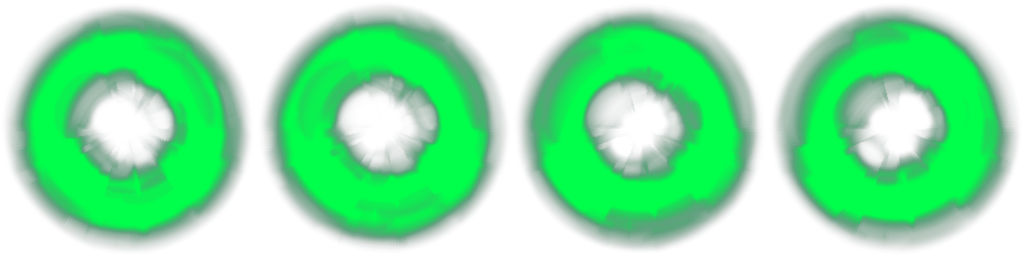
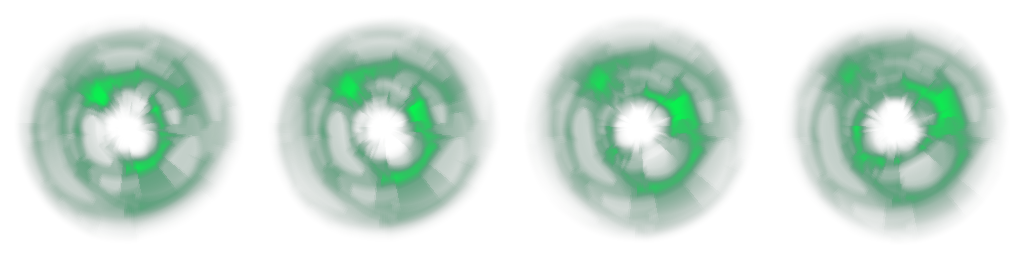
Match form VFX shader masks

diff --git a/scripts/extract-character-form-vfx.py b/scripts/extract-character-form-vfx.py
@@ -43,9 +43,9 @@ class FormSpec:
 
 
 FORMS = (
-    FormSpec("demon", "DEMON_FORM", "IRONCLAD", 0.72),
+    FormSpec("demon", "DEMON_FORM", "IRONCLAD", 0.5),
     FormSpec("serpent", "SERPENT_FORM", "SILENT", 0.4),
-    FormSpec("void", "VOID_FORM", "REGENT", 0.4),
+    FormSpec("void", "VOID_FORM", "REGENT", 0.18),
     FormSpec("reaper", "REAPER_FORM", "NECROBINDER", 0.52),
     FormSpec("echo", "ECHO_FORM", "DEFECT", 0.4),
 )
@@ -104,6 +104,17 @@ def smoothstep(left: float, right: float, value: float) -> float:
     return amount * amount * (3.0 - 2.0 * amount)
 
 
+def sample_float_gradient(stops: tuple[tuple[float, float], ...], value: float) -> float:
+    if value <= stops[0][0]:
+        return stops[0][1]
+    for index in range(1, len(stops)):
+        right_at, right_value = stops[index]
+        if value <= right_at:
+            left_at, left_value = stops[index - 1]
+            return mix(left_value, right_value, (value - left_at) / (right_at - left_at))
+    return stops[-1][1]
+
+
 def sample_gradient(stops: tuple[tuple[float, tuple[float, float, float]], ...], value: float) -> tuple[int, int, int]:
     if value <= stops[0][0]:
         color = stops[0][1]
@@ -155,7 +166,11 @@ def form_noise_frame(
     colors: tuple[tuple[float, tuple[float, float, float]], ...],
     mask: Callable[[float, float], float],
     overlay: Callable[[float, float], float],
+    alpha: Callable[[float, float, float], float] = lambda _u, _v, value: value,
+    initial_a: tuple[float, float] = (0, 0),
+    initial_b: tuple[float, float] = (0, 0),
     polar: bool = False,
+    polar_rotation: float = 0,
 ) -> Image.Image:
     noise_pixels = noise.load()
     output = Image.new("RGBA", (size, size))
@@ -167,24 +182,27 @@ def form_noise_frame(
             if polar:
                 dx, dy = u - 0.5, v - 0.5
                 source_u = math.hypot(dx, dy) * 2
-                source_v = (math.atan2(dy, dx) / (math.pi * 2)) % 1
+                source_v = (math.atan2(dy, dx) / (math.pi * 2) + polar_rotation) % 1
             else:
                 source_u, source_v = u, v
             a = sample_wrapped(
                 noise_pixels,
                 noise.size,
-                source_u * tiles_a[0] + tiles_a[2] * time,
-                source_v * tiles_a[1] + tiles_a[3] * time,
+                source_u * tiles_a[0] + tiles_a[2] * time + initial_a[0],
+                source_v * tiles_a[1] + tiles_a[3] * time + initial_a[1],
             )
             b = sample_wrapped(
                 noise_pixels,
                 noise.size,
-                source_u * tiles_b[0] + tiles_b[2] * time,
-                source_v * tiles_b[1] + tiles_b[3] * time,
+                source_u * tiles_b[0] + tiles_b[2] * time + initial_b[0],
+                source_v * tiles_b[1] + tiles_b[3] * time + initial_b[1],
             )
             value = ((a + b) * 0.5 + overlay(u, v)) * mask(u, v)
             value = smoothstep(erosion[0], erosion[0] + erosion[1], value)
-            output_pixels[x, y] = (*sample_gradient(colors, value), round(max(0.0, min(1.0, value)) * 255))
+            output_pixels[x, y] = (
+                *sample_gradient(colors, value),
+                round(max(0.0, min(1.0, alpha(u, v, value))) * 255),
+            )
     return output
 
 
@@ -203,6 +221,7 @@ def animated_noise_sheet(noise: Image.Image, slug: str) -> Image.Image:
             ((0.516, (1, 0, 0.177)), (1, (1, 0.485, 0))),
             lambda u, _v: smoothstep(0.1, 0.7, u) * min(1, (1 - u) / 0.25),
             lambda u, _v: smoothstep(0.549, 1, u),
+            lambda u, _v, value: value * (1 - u) / 0.25,
         )
     else:
         serpent = slug == "serpent"
@@ -218,9 +237,18 @@ def animated_noise_sheet(noise: Image.Image, slug: str) -> Image.Image:
                 if serpent
                 else ((0.306, (0.048, 0, 0.072)), (0.703, (0.866, 0, 1)), (1, (1, 1, 1)))
             ),
-            lambda u, v: max(0, 1 - abs(math.hypot(u - 0.5, v - 0.5) * 2 - 0.52) / 0.52),
-            lambda u, v: smoothstep(0.122, 0.754, math.hypot(u - 0.5, v - 0.5) * 2),
+            lambda u, v: sample_float_gradient(
+                ((0, 0), (0.26216215, 0.75), (1, 0)),
+                math.hypot(u - 0.5, v - 0.5) * 2,
+            ),
+            lambda u, v: sample_float_gradient(
+                ((0.12162162, 0), (0.75405407, 1)),
+                math.hypot(u - 0.5, v - 0.5) * 2,
+            ),
+            initial_a=(0, 0.2) if serpent else (0, 0),
+            initial_b=(0, 0.45) if serpent else (0, 0),
             polar=True,
+            polar_rotation=0 if serpent else 0.25,
         )
     for index in range(frames):
         sheet.paste(render(index / frames), (index * frame_size, 0))
@@ -257,9 +285,7 @@ def compile_scene(
             props["hframes"] = 4
             props["browser_fps"] = 4
         if node["name"] == "vfx_serpent_form_snakes":
-            props["browser_rotation_speed"] = 0.08
-            props["browser_pulse_strength"] = 0.03
-            props["browser_pulse_speed"] = 2.4
+            props["offset"] = {"$": "Vector2", "v": [-12.8, -89.6]}
 
     used_ext_ids: set[str] = set()
     for node in kept_nodes:
@@ -286,7 +312,7 @@ def compile_scene(
             "texture": texture_metadata[VOID_SPIKE],
             "type": "Texture2D",
         }
-        for index, rotation in enumerate((0, math.pi / 2, math.pi, math.pi * 1.5), start=1):
+        for index, rotation in enumerate((-math.pi / 6, math.pi / 12, math.pi * 11 / 12, -math.pi * 5 / 6), start=1):
             pivot_name = f"browser_void_spike_{index}"
             kept_nodes.extend((
                 {
